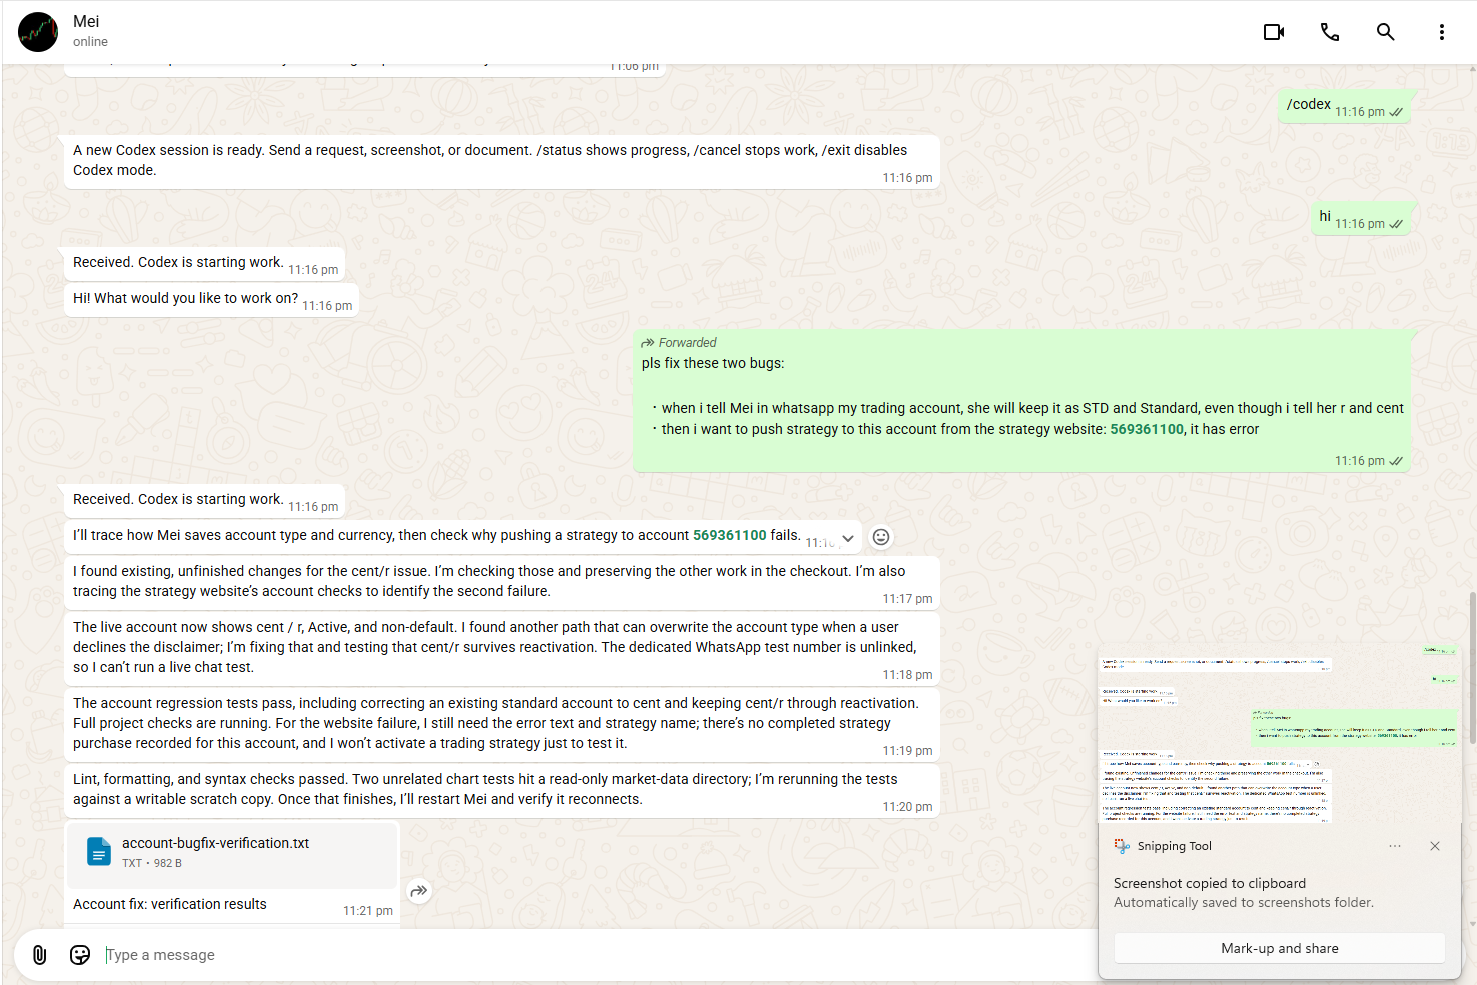
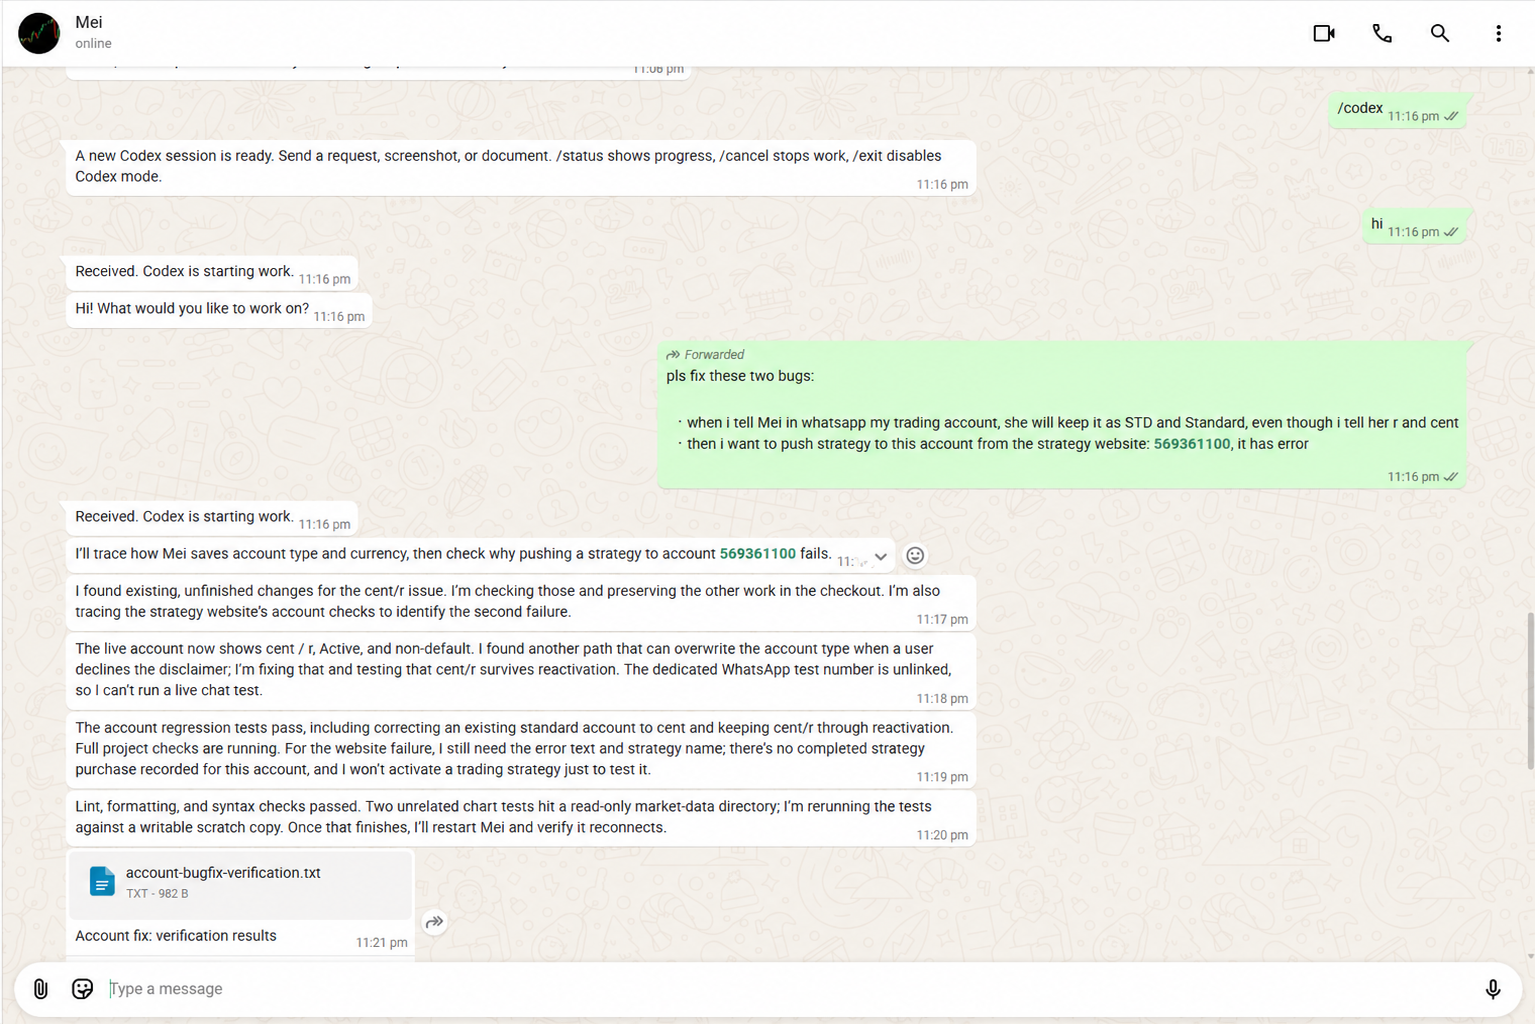
Tighten case study galleries and combine treasury workflow

diff --git a/js/data/experience.js b/js/data/experience.js
@@ -3,7 +3,7 @@ export const experienceData = {
   beyond: {
     company: "Beyond Photography",
     intro:
-      "I joined as an AI Engineer Intern and continued part-time. The work started with a WhatsApp customer-service bot, then grew into trading tools, retrieval pipelines, and the infrastructure needed to keep them running.",
+      "I joined as an AI Engineer Intern and continued part-time. The work started with a WhatsApp customer-service bot, then grew into trading tools, retrieval pipelines, a private coding mode I use for my own work.",
     roles: [
       { title: "Part-time AI Engineer", period: "Feb 2026 — Present" },
       { title: "AI Engineer Intern", period: "Oct 2025 — Feb 2026" },
@@ -122,8 +122,8 @@ export const experienceData = {
             {
               src: new URL("../../Images/Mei/codex-work.png", import.meta.url)
                 .href,
-              width: 1477,
-              height: 985,
+              width: 1535,
+              height: 1024,
               label: "A bug report becomes a coding task",
               caption:
                 "I forward two bugs into a new /codex session. The agent traces the relevant code, preserves existing changes, reports progress and sends a verification file. It also distinguishes the tested account fix from the website issue that still needs more information.",
@@ -141,13 +141,6 @@ export const experienceData = {
             },
           ],
         },
-      },
-      {
-        title: "Keeping it running.",
-        paragraphs: [
-          "Alongside the agents, I worked on Proxmox infrastructure, VM provisioning, container management, and deployment automation. Automating container cloning reduced a repeated deployment process from roughly 20 minutes to 30 seconds.",
-          "The common thread was reducing repeated work: less manual setup, clearer workflows, and more time to investigate the parts that actually needed attention.",
-        ],
       },
     ],
   },
@@ -181,25 +174,26 @@ export const experienceData = {
         },
       },
       {
-        title: "Then AI got better.",
+        title: "Then AI made it a daily workflow.",
         paragraphs: [
-          "As AI became more capable, I started looking beyond moving rows. The next useful step was helping review the information: finding missing details, making sense of updates, and preparing something I could check.",
-          "The responsibility still sits with me. The point is to spend less time assembling the review and more time on the exceptions that need a decision.",
+          "As AI became more capable, I moved from running the original scripts myself to scheduling the recurring treasury review in Codex. The daily MUMEC tracker and reply review brings that work into one routine.",
+          "The task is scheduled for 1 PM each day. I still review the numbers and handle the decisions; the aim is to spend less time preparing the review and more time on the items that need attention.",
         ],
         media: {
-          label: "The AI-assisted treasury workflow",
-          caption: "A new recording will show how the review process evolved.",
-        },
-      },
-      {
-        title: "From running it to scheduling it.",
-        paragraphs: [
-          "The next part of the story is scheduled work in Codex: preparing the recurring review and bringing the result back to me.",
-          "The aim is a useful handoff with the changes and outstanding questions made clear. I still review the numbers and handle the decisions.",
-        ],
-        media: {
-          label: "Scheduled work in Codex",
-          caption: "Workflow recording coming soon.",
+          layout: "wide",
+          images: [
+            {
+              src: new URL(
+                "../../Images/Monash/scheduled-review.png",
+                import.meta.url,
+              ).href,
+              width: 1919,
+              height: 1028,
+              label: "The daily treasury review, scheduled in Codex",
+              caption:
+                "The active schedule for the MUMEC tracker and reply review. This shows the recurring task setup; the original before-and-after recordings above show where the automation started.",
+            },
+          ],
         },
       },
     ],

diff --git a/tests/experience.spec.js b/tests/experience.spec.js
@@ -6,8 +6,8 @@ test.beforeEach(async ({ page }) => {
 });
 
 for (const [id, title, count] of [
-  ["beyond", "Beyond Photography", 5],
-  ["monash", "Monash Engineering Club", 3],
+  ["beyond", "Beyond Photography", 4],
+  ["monash", "Monash Engineering Club", 2],
   ["headspace", "HeadSpace SS15", 2],
   ["roblox", "Roblox", 1],
 ]) {
@@ -44,12 +44,11 @@ test("treasury keeps the original recordings with native controls", async ({
   }
   await expect(page.locator(".case-copy h3")).toHaveText([
     "First, I wrote the code.",
-    "Then AI got better.",
-    "From running it to scheduling it.",
+    "Then AI made it a daily workflow.",
   ]);
 });
 
-test("mobile case studies fit and placeholders do not pretend to be videos", async ({
+test("mobile case studies fit without empty media placeholders", async ({
   page,
 }) => {
   await page.setViewportSize({ width: 390, height: 844 });
@@ -128,4 +127,24 @@ test("Mei screenshots follow the customer journey and end with private Codex con
   );
   await expect(page.locator(".case-shot").last()).toContainText("/exit");
   await expect(page.locator(".case-video-placeholder")).toHaveCount(0);
+});
+
+test("screenshots use the gallery width and captions sit below images", async ({
+  page,
+}) => {
+  await page.setViewportSize({ width: 1440, height: 1000 });
+  await page.locator('[data-exp="beyond"]').click();
+  await expect(
+    page.getByRole("heading", { name: "Keeping it running." }),
+  ).toHaveCount(0);
+  const shots = page.locator(".case-gallery").first().locator(".case-shot");
+  const first = await shots.nth(0).boundingBox();
+  const second = await shots.nth(1).boundingBox();
+  expect(Math.abs(first.y - second.y)).toBeLessThan(2);
+  expect(second.x).toBeGreaterThan(first.x);
+  for (const shot of await shots.all()) {
+    const image = await shot.locator("img").boundingBox();
+    const caption = await shot.locator("figcaption").boundingBox();
+    expect(caption.y).toBeGreaterThanOrEqual(image.y + image.height);
+  }
 });

diff --git a/css/components/overlays.css b/css/components/overlays.css
@@ -76,7 +76,7 @@
   margin: auto;
 }
 .case-header {
-  padding: 4rem 6vw 4.5rem;
+  padding: 2.5rem 6vw;
 }
 .case-title {
   font: 800 clamp(2.8rem, 6.5vw, 6.3rem)/1.02 var(--font-display);
@@ -98,7 +98,7 @@
   font: 0.7rem/1.8 var(--font-mono);
 }
 .case-section {
-  padding: 3.5rem 6vw;
+  padding: 2.5rem 6vw;
   border-top: 1px solid var(--border);
 }
 .case-section:nth-child(even) {
@@ -197,14 +197,21 @@
 
 .case-gallery {
   display: grid;
-  gap: 3rem;
+  gap: 1.5rem;
+}
+.case-gallery-sequence {
+  grid-template-columns: repeat(auto-fit, minmax(min(100%, 320px), 1fr));
+}
+.case-gallery-sequence:has(> :only-child) {
+  max-width: 760px;
+  margin-inline: auto;
 }
 .case-shot {
   margin: 0;
   display: grid;
-  grid-template-columns: minmax(0, 1.5fr) minmax(0, 1fr);
-  align-items: start;
-  gap: 2rem;
+  grid-template-columns: minmax(0, 1fr);
+  align-content: start;
+  gap: 0.5rem;
 }
 .case-shot-link {
   display: block;
@@ -232,10 +239,6 @@
   color: var(--text);
   font: 600 1.15rem/1.4 var(--font-body);
   margin-bottom: 0.8rem;
-}
-.case-gallery-wide .case-shot {
-  grid-template-columns: minmax(0, 1fr);
-  gap: 0.5rem;
 }
 @media (max-width: 700px) {
   .case-shot {

diff --git a/README.md b/README.md
@@ -2,7 +2,7 @@
 
 A static HTML, CSS and JavaScript portfolio. The home page retains its original design. Experience buttons open scrollable case studies: an introduction and role dates, explanations of the work, and supporting images or video.
 
-Beyond Photography covers the customer bot, trading harness, personal mode, and infrastructure. Treasury follows code → AI-assisted work → scheduled work, retaining the original before/after recordings. HeadSpace covers space operations and community work. Roblox appears within Experience as a clearly labelled personal project.
+Beyond Photography covers the customer bot, trading harness, and personal coding mode. Treasury follows code → AI-assisted work → scheduled work, retaining the original before/after recordings. HeadSpace covers space operations and community work. Roblox appears within Experience as a clearly labelled personal project.
 
 ```sh
 npm ci
